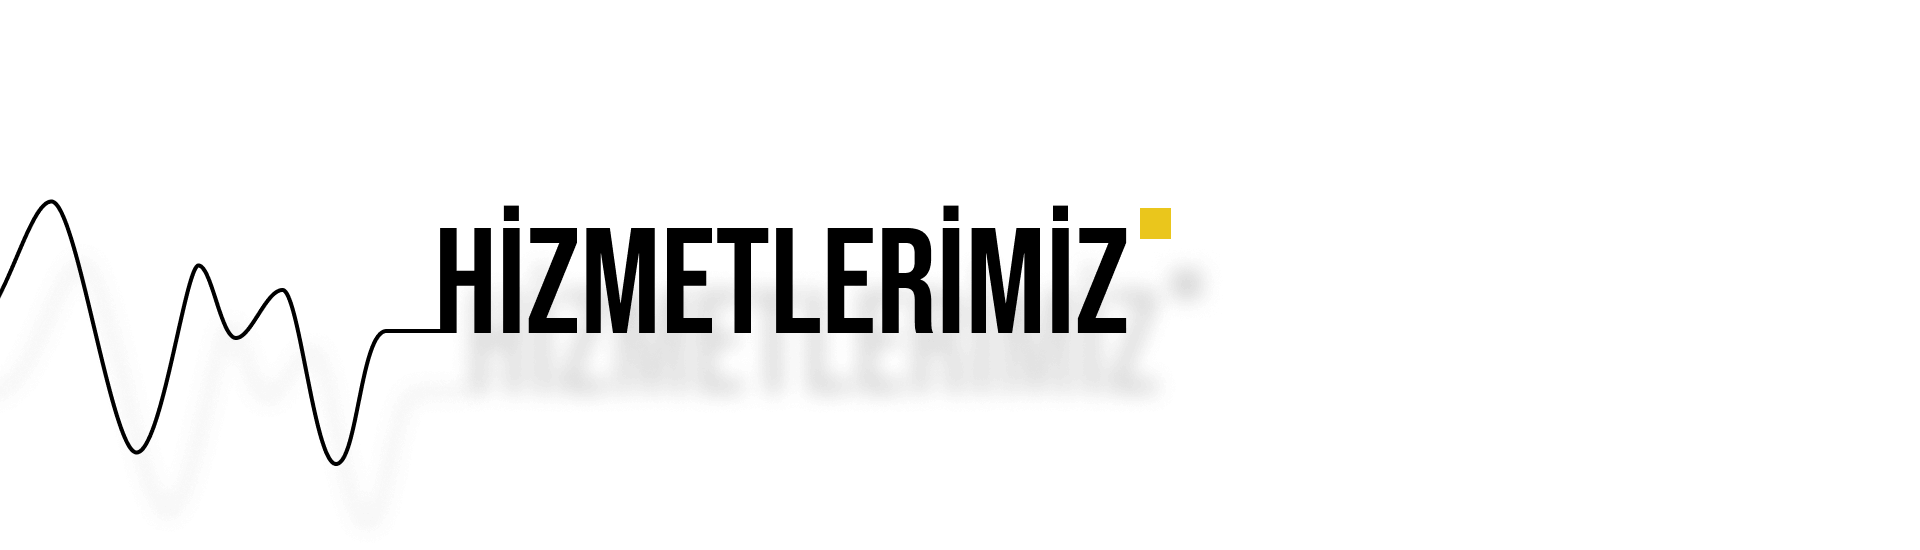
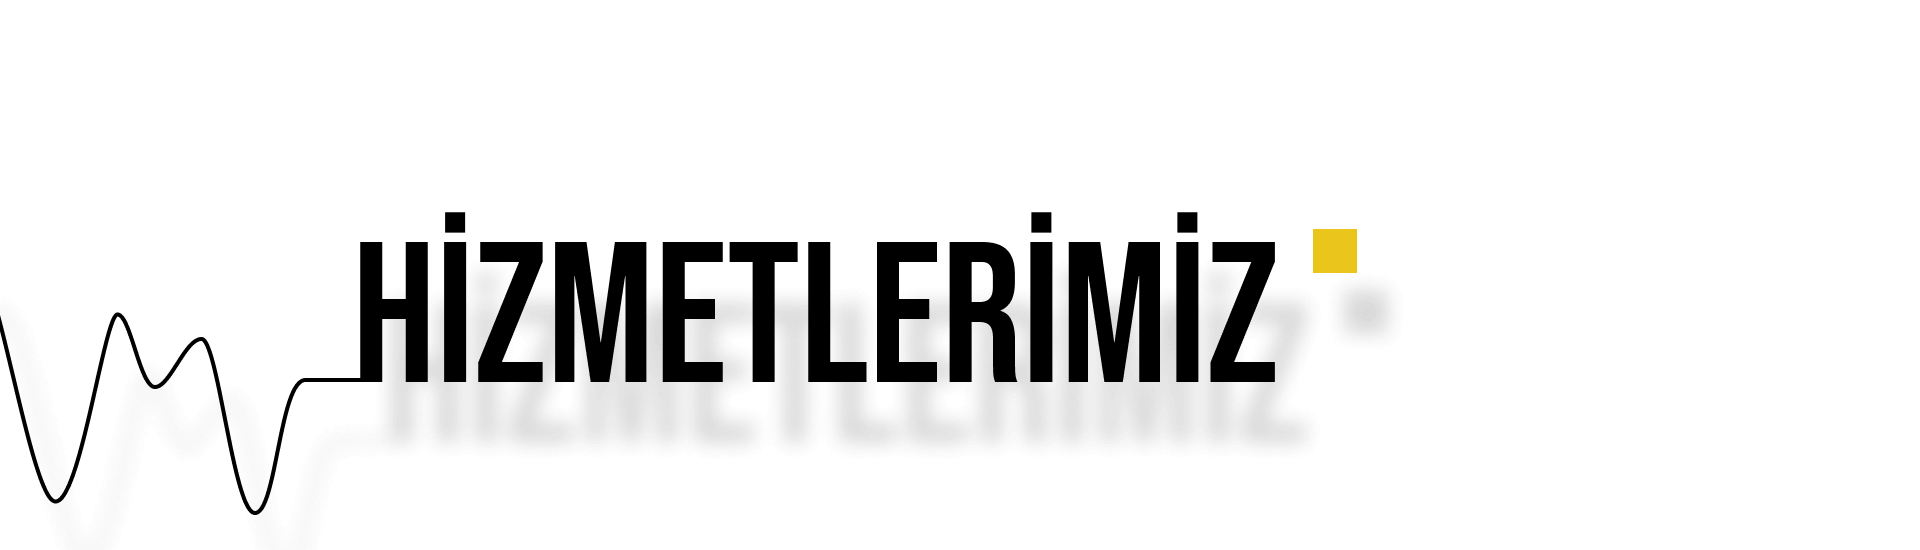
afterparty

diff --git a/referanslarimiz.html b/referanslarimiz.html
@@ -60,19 +60,17 @@
         </div>
     </nav>
     <section style="position: relative;"><img class="img-fluid" src="assets/img/referanslarimiz2.png"><img src="assets/img/sculpture9.png" style="width: 18%;position: absolute;left: 5%;bottom: -18%;" loading="lazy"></section>
-    <section class="projects-clean" style="background: rgba(255,255,255,0);margin-top: 50px;">
-        <div class="container">
-            <div class="intro">
-                <p class="text-center" style="margin-bottom: 24px;font-size: 1.2rem;color: #313437;font-weight: 600;">Code232 Ajans'ımızın tecrübesine ve bilgisine güvenerek ailemize katılan markalar.</p>
-            </div>
-            <div class="row row-cols-1 row-cols-sm-1 row-cols-md-2 row-cols-lg-2 row-cols-xl-2 row-cols-xxl-2 justify-content-evenly projects">
-                <div class="col-sm-6 col-lg-4 item"><img class="img-fluid" src="assets/img/Frame%201.png"></div>
-                <div class="col-sm-6 col-lg-4 item"><img class="img-fluid" src="assets/img/Frame%202.png"></div>
-                <div class="col-sm-6 col-lg-4 item"><img class="img-fluid" src="assets/img/Frame%203.png"></div>
-                <div class="col-sm-6 col-lg-4 item"><img class="img-fluid" src="assets/img/Frame%204.png"></div>
-            </div>
+    <div class="container referanslar" style="margin-top: 50px;">
+        <h5 class="text-center"><strong>Code232 Ajans'ımızın tecrübesine ve bilgisine </strong><br><strong>güvenerek ailemize katılan markalar.</strong><br></h5>
+        <div class="row">
+            <div class="col-md-4"><img class="img-fluid referans siyah" src="assets/img/Frame%205.png"></div>
+            <div class="col-md-4"><img class="img-fluid referans beyaz" src="assets/img/Frame%203.png"></div>
+            <div class="col-md-4"><img class="img-fluid referans siyah" src="assets/img/Frame%201.png"></div>
+            <div class="col-md-4"><img class="img-fluid referans beyaz" src="assets/img/Frame%204.png"></div>
+            <div class="col-md-4"><img class="img-fluid referans siyah" src="assets/img/Frame%206.png"></div>
+            <div class="col-md-4"><img class="img-fluid referans beyaz" src="assets/img/Frame%202.png"></div>
         </div>
-    </section>
+    </div>
     <footer class="footer-basic yellow" style="background: url(&quot;assets/img/bg.png&quot;);background-size: cover;">
         <div style="text-align: center;margin-bottom: 1rem;"><a href="#" style="text-decoration: none;color: #000000;font-weight: 800;font-size: 1.4rem;font-family: 'Bebas Neue', serif;letter-spacing: 6px;">Yukarıya Çık</a></div>
         <p class="copyright">This page created and designed by&nbsp;<a class="hevalnergiz" href="https://hevalnergiz.com" target="_blank">Heval Nergiz</a></p>

diff --git a/hizmetlerimiz.html b/hizmetlerimiz.html
@@ -59,7 +59,7 @@
             </div>
         </div>
     </nav>
-    <section style="position: relative;"><img class="img-fluid" src="assets/img/hizmetlerimiz2.png"><img src="assets/img/sculpture7.png" style="width: 18%;position: absolute;right: 10%;bottom: -13%;" loading="lazy"></section>
+    <section style="position: relative;"><img class="img-fluid" src="assets/img/hizmetlerimiz2.png"><img src="assets/img/sculpture7.png" style="width: 18%;position: absolute;right: 7%;bottom: -13%;" loading="lazy"></section>
     <section class="features-boxed">
         <div class="container">
             <div class="intro"></div>

diff --git a/assets/css/Features-Boxed.css b/assets/css/Features-Boxed.css
@@ -104,3 +104,22 @@
   z-index: 99999999;
 }
 
+.referans {
+  filter: saturate(0%);
+  transition-duration: 0.7s;
+  margin-top: 1.5rem;
+}
+
+.referans:hover {
+  filter: saturate(100%);
+  transition-duration: 0.7s;
+}
+
+.referans.siyah {
+  background-color: rgba(0,0,0,0.1);
+}
+
+.referans.beyaz {
+  background-color: rgba(255,255,255,0.4);
+}
+

diff --git a/assets/css/Projects-Clean.css b/assets/css/Projects-Clean.css
@@ -39,7 +39,7 @@
 .projects-clean .item {
   text-align: center;
   background-color: rgba(255,255,255,0);
-  margin: 5px;
+  margin: 0px;
   filter: saturate(0%);
   transition-duration: 1s;
 }
